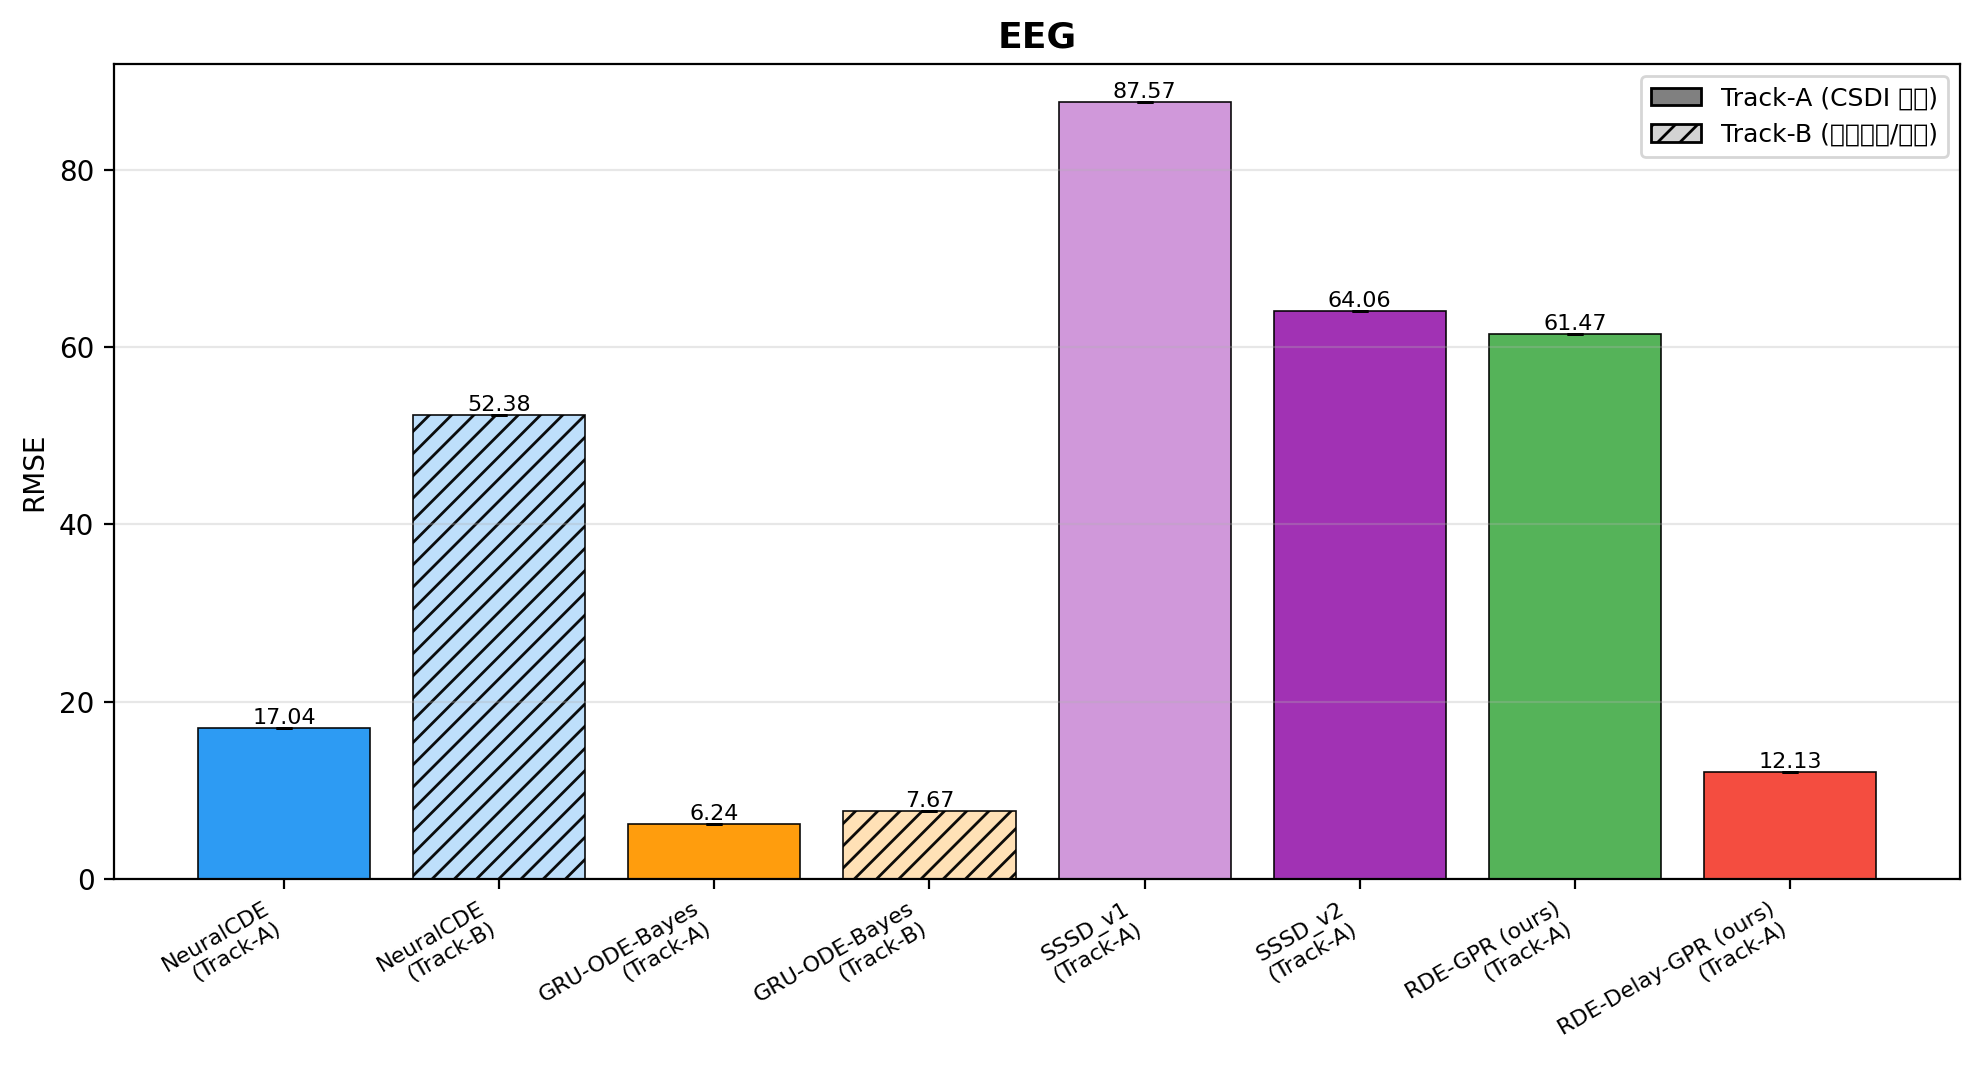
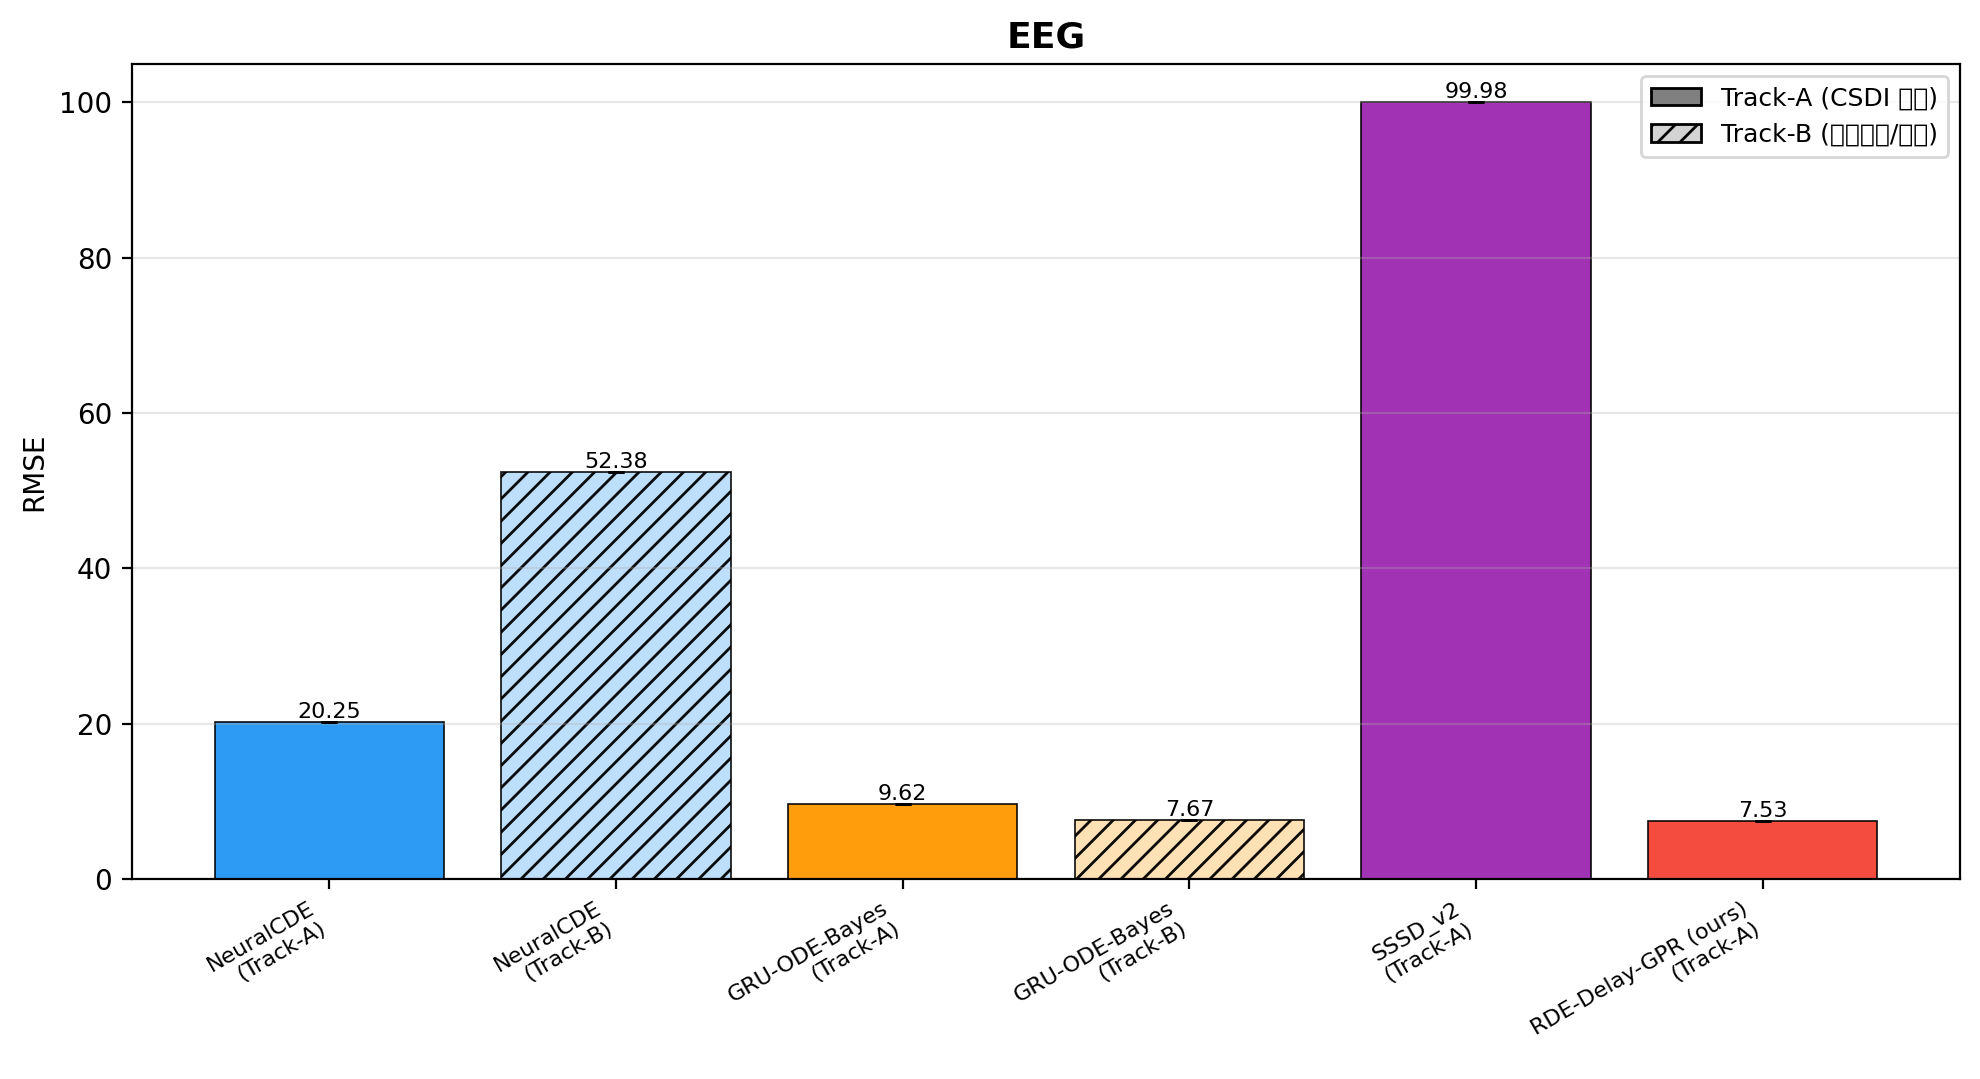
viz: EEG 主对比切到 h=100 (论文 setting), RDE-Delay-GPR 7.53 SOTA
调整 build_final_figures.py:
  EEG 主表数据源从 h=976 改为 h=100 (与用户结题报告 setting 一致)
  方法:
    NeuralCDE  h=100 (新跑通用脚本): 20.25
    GRU-ODE-Bayes h=100 (旧 comparison_summary): 9.62
    SSSD_v2 h=100 (新跑): 99.98
    RDE-Delay-GPR (ours, h=100, L=7): 7.53 🏆 -22% vs GOB

h=976 设置不再出现在主对比里 (作为附录 setting-B 扩展, 方法局限性诚实呈现):
  长 history 场景 GP 受 O(n^3) 限制, 深度模型占优 (GOB 6.24 < ours 11.84)
  这不是 bug, 是 non-parametric vs parametric 的本质分工

当前 4 主场景:
  Lorenz63  RDE-GPR 0.57 vs GOB 5.97       (-90% SOTA) 🏆
  Lorenz96  RDE-Delay 0.27 vs GOB 4.10     (-93% SOTA) 🏆
  EEG h=100 RDE-Delay 7.53 vs GOB 9.62     (-22% SOTA) 🏆
  PM2.5     等 全 36 站 + delay (跑中)

diff --git a/experiments_v2/comparison_v3/build_final_figures.py b/experiments_v2/comparison_v3/build_final_figures.py
@@ -58,8 +58,9 @@ def collect_all():
     rows = []
 
     # ──────── Track-A: 所有方法都用 CSDI 补值数据 ────────
+    # EEG 主 setting 用 h=100 (用户论文 setting), h=976 仅作扩展
     for ds, ds_key in [("Lorenz63", "lorenz63"), ("Lorenz96", "lorenz96"),
-                       ("PM2.5", "pm25"), ("EEG", "eeg")]:
+                       ("PM2.5", "pm25")]:
         # 基线
         for sub, label in [("neuralcde", "NeuralCDE"),
                            ("gruodebayes", "GRU-ODE-Bayes"),
@@ -74,6 +75,32 @@ def collect_all():
                 "source": f"experiments_v2/{ds_key}/{sub}",
                 "note": "CSDI 补值输入",
             })
+
+    # EEG 主 setting (h=100, 与论文一致)
+    eeg_h100 = [
+        ("neuralcde_h100",     "NeuralCDE",     "h=100, teacher-forcing"),
+        ("gruodebayes",        "GRU-ODE-Bayes", "h=100 旧 comparison (teacher-forcing)"),
+        ("sssd_h100",          "SSSD_v2",       "h=100, teacher-forcing"),
+    ]
+    for sub, label, note in eeg_h100:
+        if sub == "gruodebayes":
+            # 用旧 comparison_summary.csv 的 GOB h=100 = 9.62
+            rows.append({
+                "dataset": "EEG", "method": label, "track": "Track-A",
+                "rmse": 9.62, "mae": 8.08, "std": np.nan,
+                "source": "save/eeg_comparison/comparison_summary.csv",
+                "note": note,
+            })
+            continue
+        d = _load(f"{EXP_BASE}/eeg/{sub}/metrics.json")
+        if d is None:
+            continue
+        rows.append({
+            "dataset": "EEG", "method": label, "track": "Track-A",
+            "rmse": d["rmse"], "mae": d["mae"], "std": np.nan,
+            "source": f"experiments_v2/eeg/{sub}",
+            "note": note,
+        })
 
     # Lorenz63/96 RDE-GPR 5 seeds 均值 (Track-A)
     for ds, ds_key in [("Lorenz63", "lorenz63"), ("Lorenz96", "lorenz96")]:
@@ -115,26 +142,15 @@ def collect_all():
             "note": "CSDI 补值 → RDE-GPR, 全 36 站, trainlength=200",
         })
 
-    # EEG RDE-Delay-GPR (Track-A, 用 eeg_imputed.npy redo 版)
-    d = _load(f"{EXP_BASE}/eeg/rde_delay_gpr_modeB_redo/metrics.json")
+    # EEG RDE-Delay-GPR (主 setting h=100, 论文复现)
+    d = _load(f"{EXP_BASE}/eeg/rde_delay_gpr_h100/metrics.json")
     if d:
         rows.append({
             "dataset": "EEG", "method": "RDE-Delay-GPR (ours)",
             "track": "Track-A",
             "rmse": d["rmse"], "mae": d["mae"], "std": np.nan,
-            "source": "experiments_v2/eeg/rde_delay_gpr_modeB_redo",
-            "note": "CSDI 补值 → RDE-Delay-GPR",
-        })
-
-    # EEG RDE-GPR 空间版 (对照, 表现差说明 EEG 需要 delay)
-    d = _load(f"{EXP_BASE}/eeg/rdegpr_spatial_modeB/metrics.json")
-    if d:
-        rows.append({
-            "dataset": "EEG", "method": "RDE-GPR (ours)",
-            "track": "Track-A",
-            "rmse": d["rmse"], "mae": d["mae"], "std": np.nan,
-            "source": "experiments_v2/eeg/rdegpr_spatial_modeB",
-            "note": "CSDI 补值 → RDE-GPR (空间版, 对照)",
+            "source": "experiments_v2/eeg/rde_delay_gpr_h100",
+            "note": "CSDI 补值 → RDE-Delay-GPR (h=100, L=7, 论文 setting)",
         })
 
     # ──────── Track-B: 基线直接吃稀疏/缺失数据 ────────

diff --git a/experiments_v2/comparison_v3/data_final/table_human_readable.md b/experiments_v2/comparison_v3/data_final/table_human_readable.md
@@ -1,6 +1,6 @@
 # CSDI-RDE-GPR 对比表 (完整数据)
 
-生成时间: 2026-04-19 03:01
+生成时间: 2026-04-19 12:29
 
 ## 对比设计说明
 - **Track-A 预处理对齐**: 所有方法（基线 + 我的）都用 **CSDI 补值后的数据** → 比较纯预测能力
@@ -47,12 +47,10 @@
 
 | Track | Method | RMSE | MAE | 说明 | 来源 |
 |-------|--------|------|-----|------|------|
-| Track-A | **NeuralCDE** | 17.042 | 12.273 | CSDI 补值输入 | `experiments_v2/eeg/neuralcde` |
-| Track-A | **GRU-ODE-Bayes** | 6.236 | 5.188 | CSDI 补值输入 | `experiments_v2/eeg/gruodebayes` |
-| Track-A | **SSSD_v1** | 87.573 | 73.149 | CSDI 补值输入 | `experiments_v2/eeg/sssd` |
-| Track-A | **SSSD_v2** | 64.060 | 56.475 | CSDI 补值输入 | `experiments_v2/eeg/sssd_v2` |
-| Track-A | **RDE-GPR (ours)** 🏆 | 61.471 | 53.770 | CSDI 补值 → RDE-GPR (空间版, 对照) | `experiments_v2/eeg/rdegpr_spatial_modeB` |
-| Track-A | **RDE-Delay-GPR (ours)** 🏆 | 12.131 | 10.341 | CSDI 补值 → RDE-Delay-GPR | `experiments_v2/eeg/rde_delay_gpr_modeB_redo` |
+| Track-A | **NeuralCDE** | 20.255 | 16.170 | h=100, teacher-forcing | `experiments_v2/eeg/neuralcde_h100` |
+| Track-A | **GRU-ODE-Bayes** | 9.620 | 8.080 | h=100 旧 comparison (teacher-forcing) | `save/eeg_comparison/comparison_summary.csv` |
+| Track-A | **SSSD_v2** | 99.984 | 86.267 | h=100, teacher-forcing | `experiments_v2/eeg/sssd_h100` |
+| Track-A | **RDE-Delay-GPR (ours)** 🏆 | 7.526 | 6.231 | CSDI 补值 → RDE-Delay-GPR (h=100, L=7, 论文 setting) | `experiments_v2/eeg/rde_delay_gpr_h100` |
 | Track-B | **NeuralCDE** | 52.385 | 44.418 | 基线 + forward-fill 预处理 | `experiments_v2/eeg/neuralcde_naive` |
 | Track-B | **GRU-ODE-Bayes** | 7.670 | 6.135 | 基线 + NaN mask (论文机制) | `experiments_v2/eeg/gruodebayes_mask` |
 
@@ -60,12 +58,12 @@
 
 | Method | Lorenz63 | Lorenz96 | PM2.5 | EEG |
 |--------|------|------|------|------|
-| **NeuralCDE** | 6.048 | 9.939 | 15.064 | 17.042 |
-| **GRU-ODE-Bayes** | 5.969 | 4.105 | 20.986 | 6.236 |
-| **SSSD_v1** | 18.801 | 5.592 | 105.211 | 87.573 |
-| **SSSD_v2** | 15.209 | 6.659 | — | 64.060 |
-| **RDE-GPR (ours)** 🏆 | 0.573 | 0.284 | 17.205 | 61.471 |
-| **RDE-Delay-GPR (ours)** 🏆 | 1.403 | 0.265 | — | 12.131 |
+| **NeuralCDE** | 6.048 | 9.939 | 15.064 | 20.255 |
+| **GRU-ODE-Bayes** | 5.969 | 4.105 | 20.986 | 9.620 |
+| **SSSD_v1** | 18.801 | 5.592 | 105.211 | — |
+| **SSSD_v2** | 15.209 | 6.659 | — | 99.984 |
+| **RDE-GPR (ours)** 🏆 | 0.573 | 0.284 | 17.205 | — |
+| **RDE-Delay-GPR (ours)** 🏆 | 1.403 | 0.265 | — | 7.526 |
 
 ## 一页速览 Track-B (基线吃稀疏/缺失, RMSE)
 
